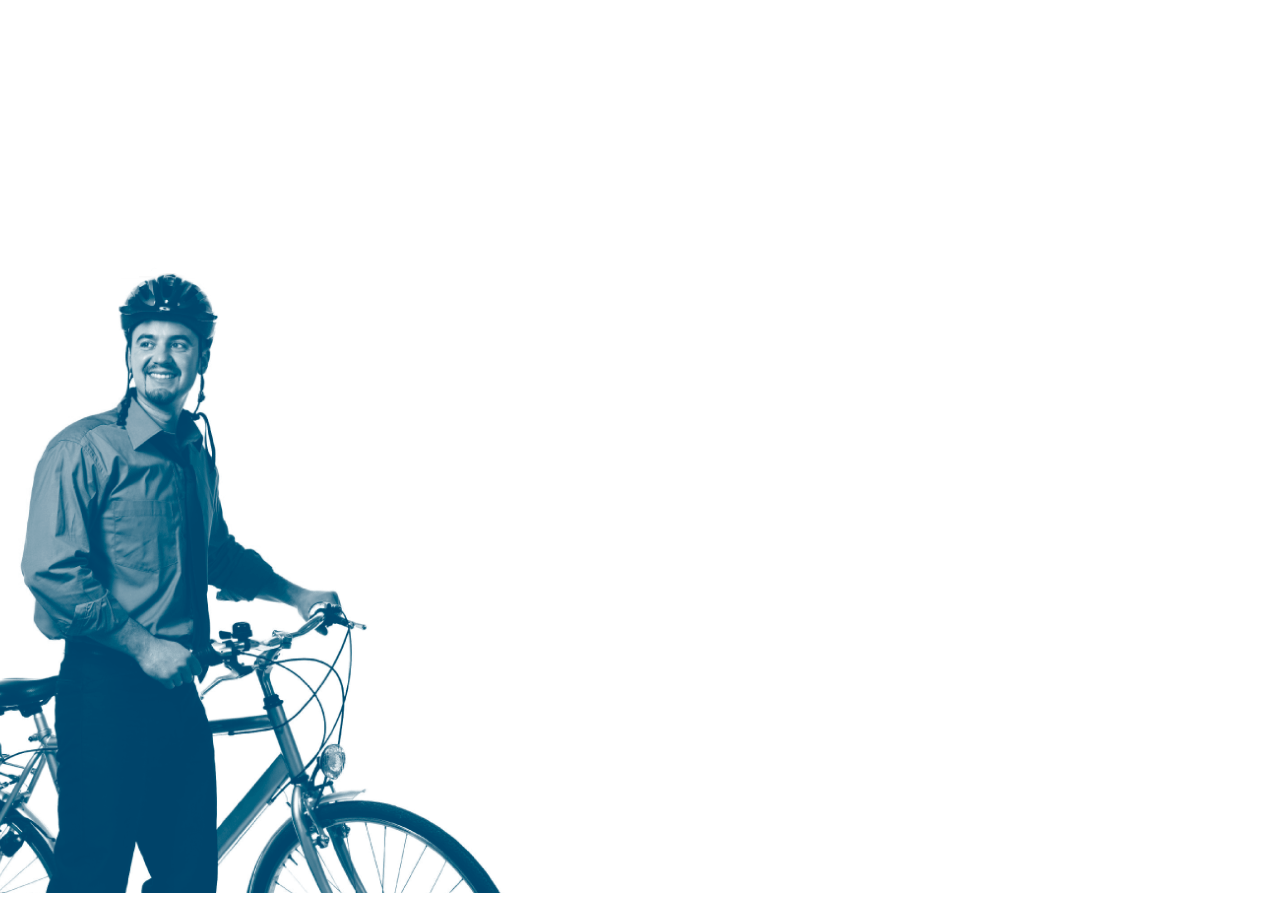
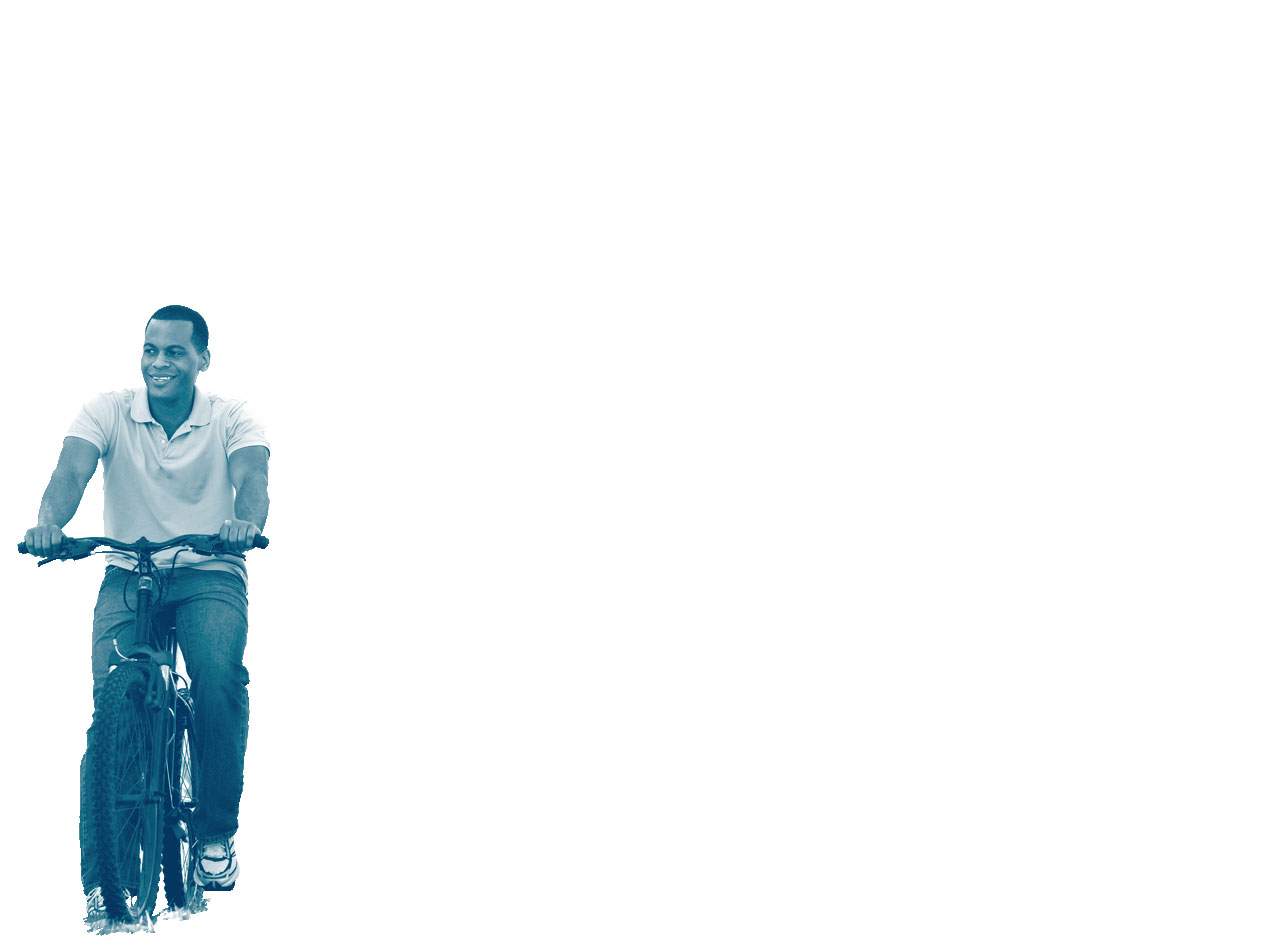
Finished New front-end
front end done!

Changed region(s): [[0.0, 0.28, 0.4062, 0.9956]]

diff --git a/app/assets/stylesheets/bootstrap_and_overrides.css.less b/app/assets/stylesheets/bootstrap_and_overrides.css.less
@@ -20,8 +20,10 @@
 @navbarBackground:#6197A0;
 @navbarLinkColor:#ffffff;
 @navbarLinkColorHover:#0B345B;
-.span9{
+#fonso{
 	background-color: white;
+	width: 800px;
+	margin-left: 50px;
 }
 .atabrand{
 	margin:0;
@@ -36,7 +38,8 @@
 	clear: both;
 }
 .logo {
-  position:relative;
+  position:absolute;
+  top: 180px;
   float: left;
   margin:-150px -150px 0 80px;
   z-index: 2000;
@@ -51,6 +54,7 @@ body{
 	padding-top: 0px;
 	background-image: url(bcc_bikecat00.png);
 	background-repeat: no-repeat;
+/*	background-attachment: fixed;*/
 }
 
 h1, h2, h3, h4, h5, h6 {
